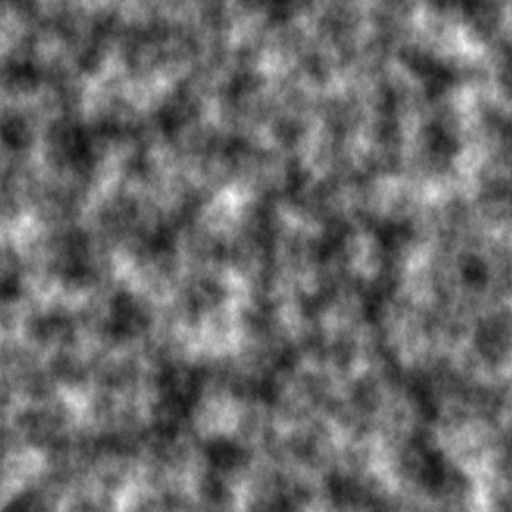
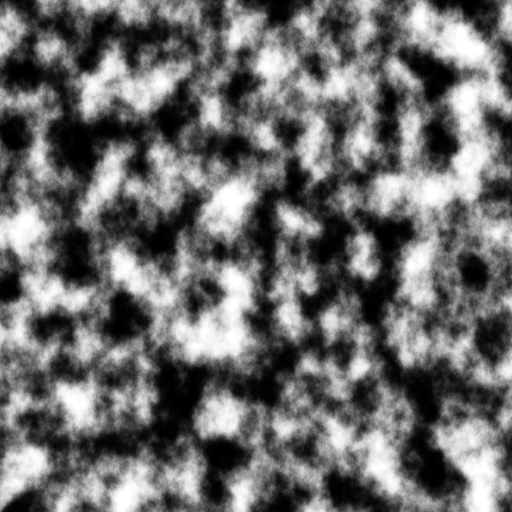
website

diff --git a/projects/clouds/clouds.js b/projects/clouds/clouds.js
@@ -41,7 +41,7 @@ if(mobile){
 
   //Time
   var time = 0.0;
-  var edges = 0.075;
+  var edges = 0.1;
   var animate = false;
   var cube = true;
   var hd = true;
@@ -193,7 +193,7 @@ if(mobile){
 
     const int STEPS_PRIMARY = 40;   
     const int STEPS_LIGHT = 6;
-    const int HD_STEPS = 512;
+    const int HD_STEPS = 256;
     const int HD_STEPS_LIGHT = 16;
 
   const float PI = 3.141592;
@@ -403,16 +403,13 @@ if(mobile){
     //shape = saturate(remap(shape, -(1.0-detail), 1.0, 0.0, 1.0));
     //Other sources this:
     shape = saturate(remap(shape, detail, 1.0, 0.0, 1.0));
-    return shape * 0.1;
     
     //Alter density at the edges of the clouds for wispiness 
     if(edges >= 0.0){
-      shape *= saturate(remap(shape, edges, 0.0, 0.01, 0.0));
+      //shape *= saturate(remap(shape, edges, 0.0, 0.01, 0.0));
     }
 
-    //shape *= saturate(remap(cloudHeight, 0.0, 0.1, 0.0, 1.0)) * saturate(remap(cloudHeight, 0.2, 1.0, 1.0, 0.0));
-
-    return shape;
+    return shape * edges;
   }
 
   float HenyeyGreenstein(float g, float costh){
